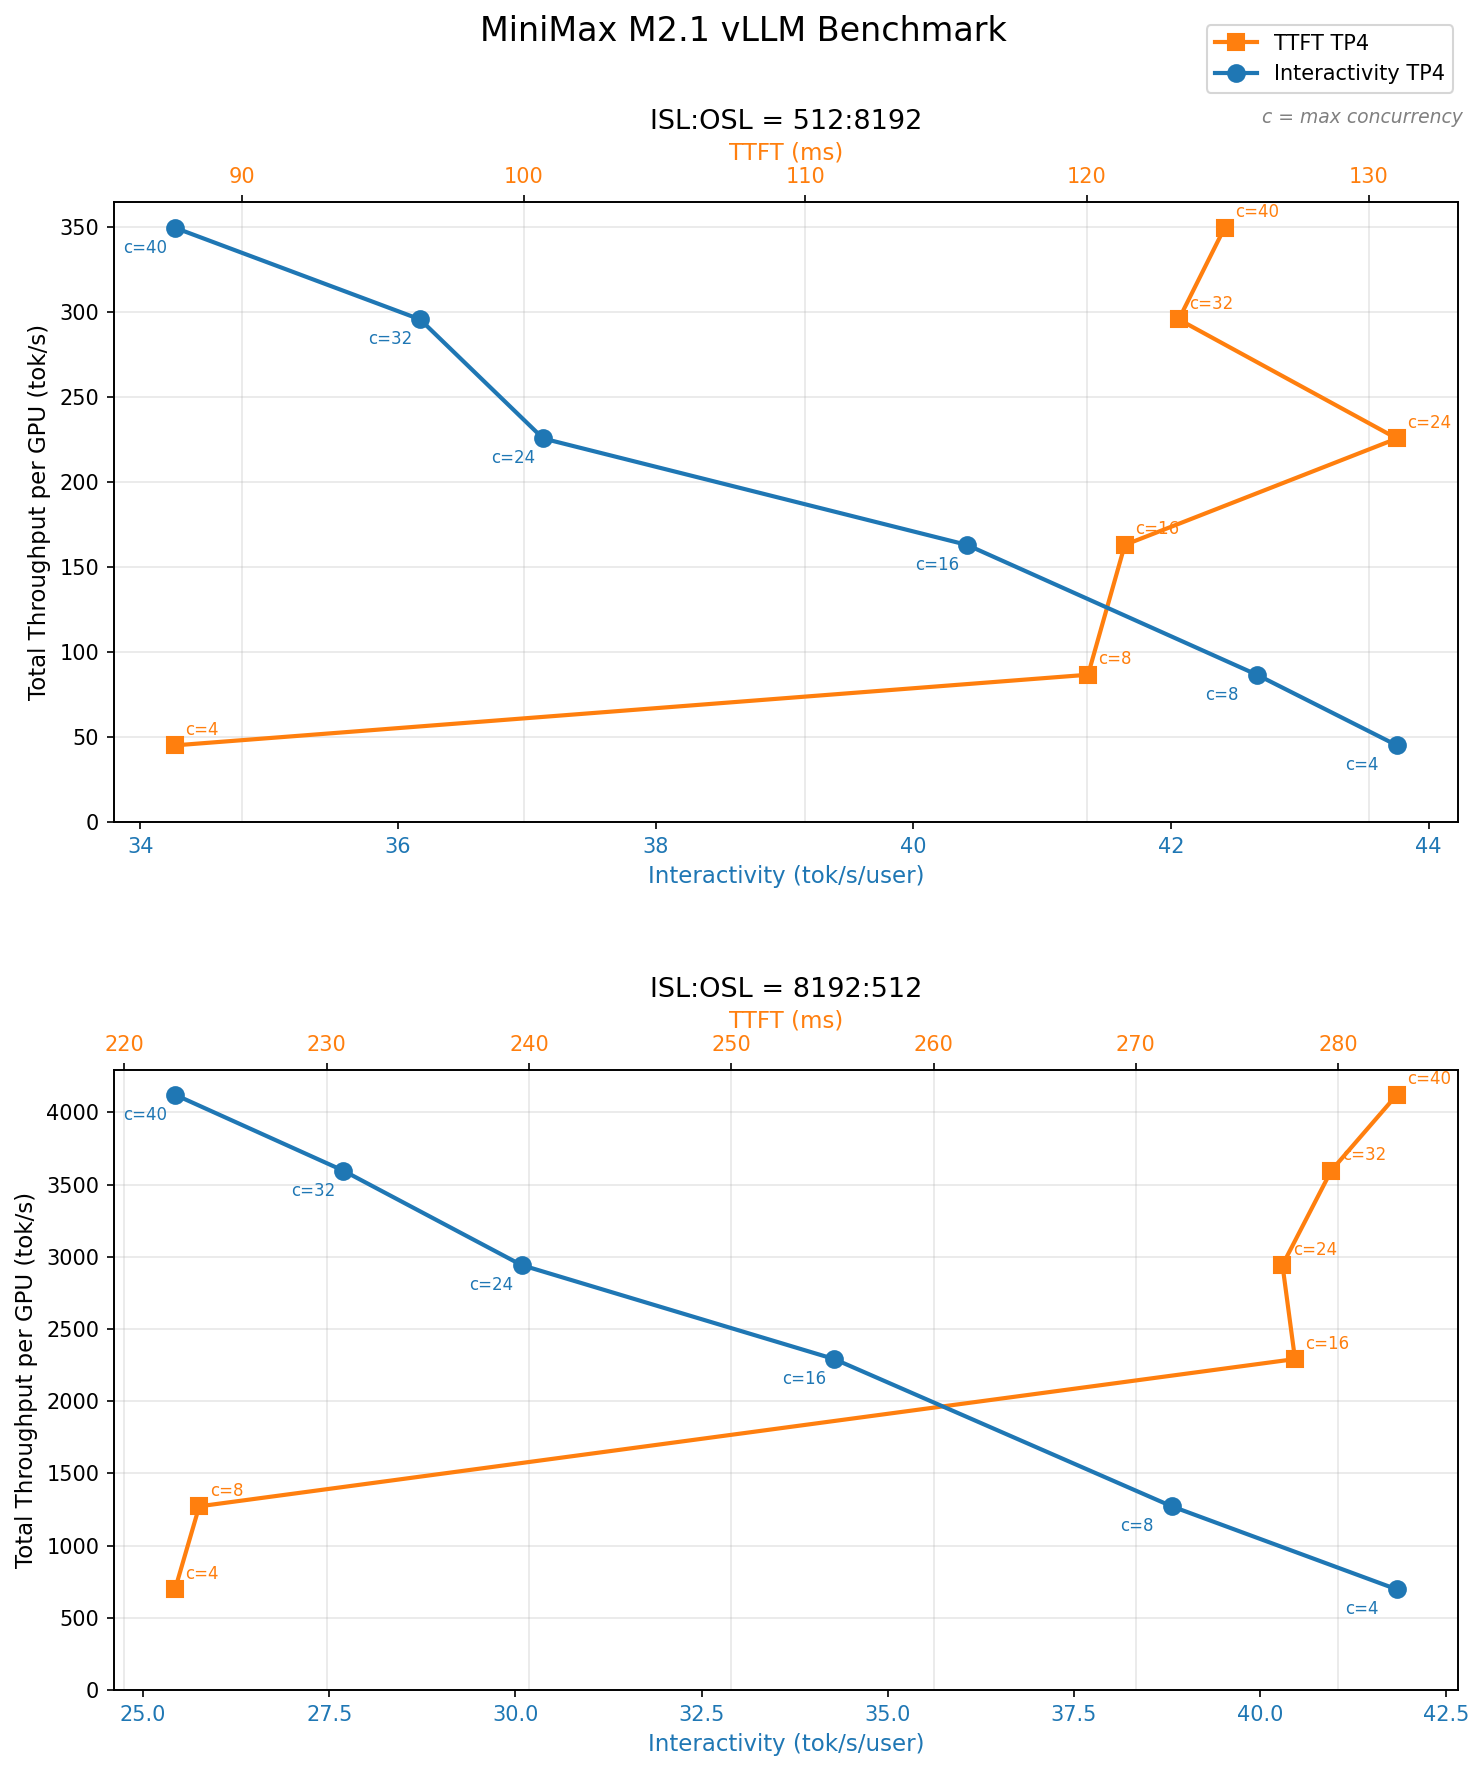
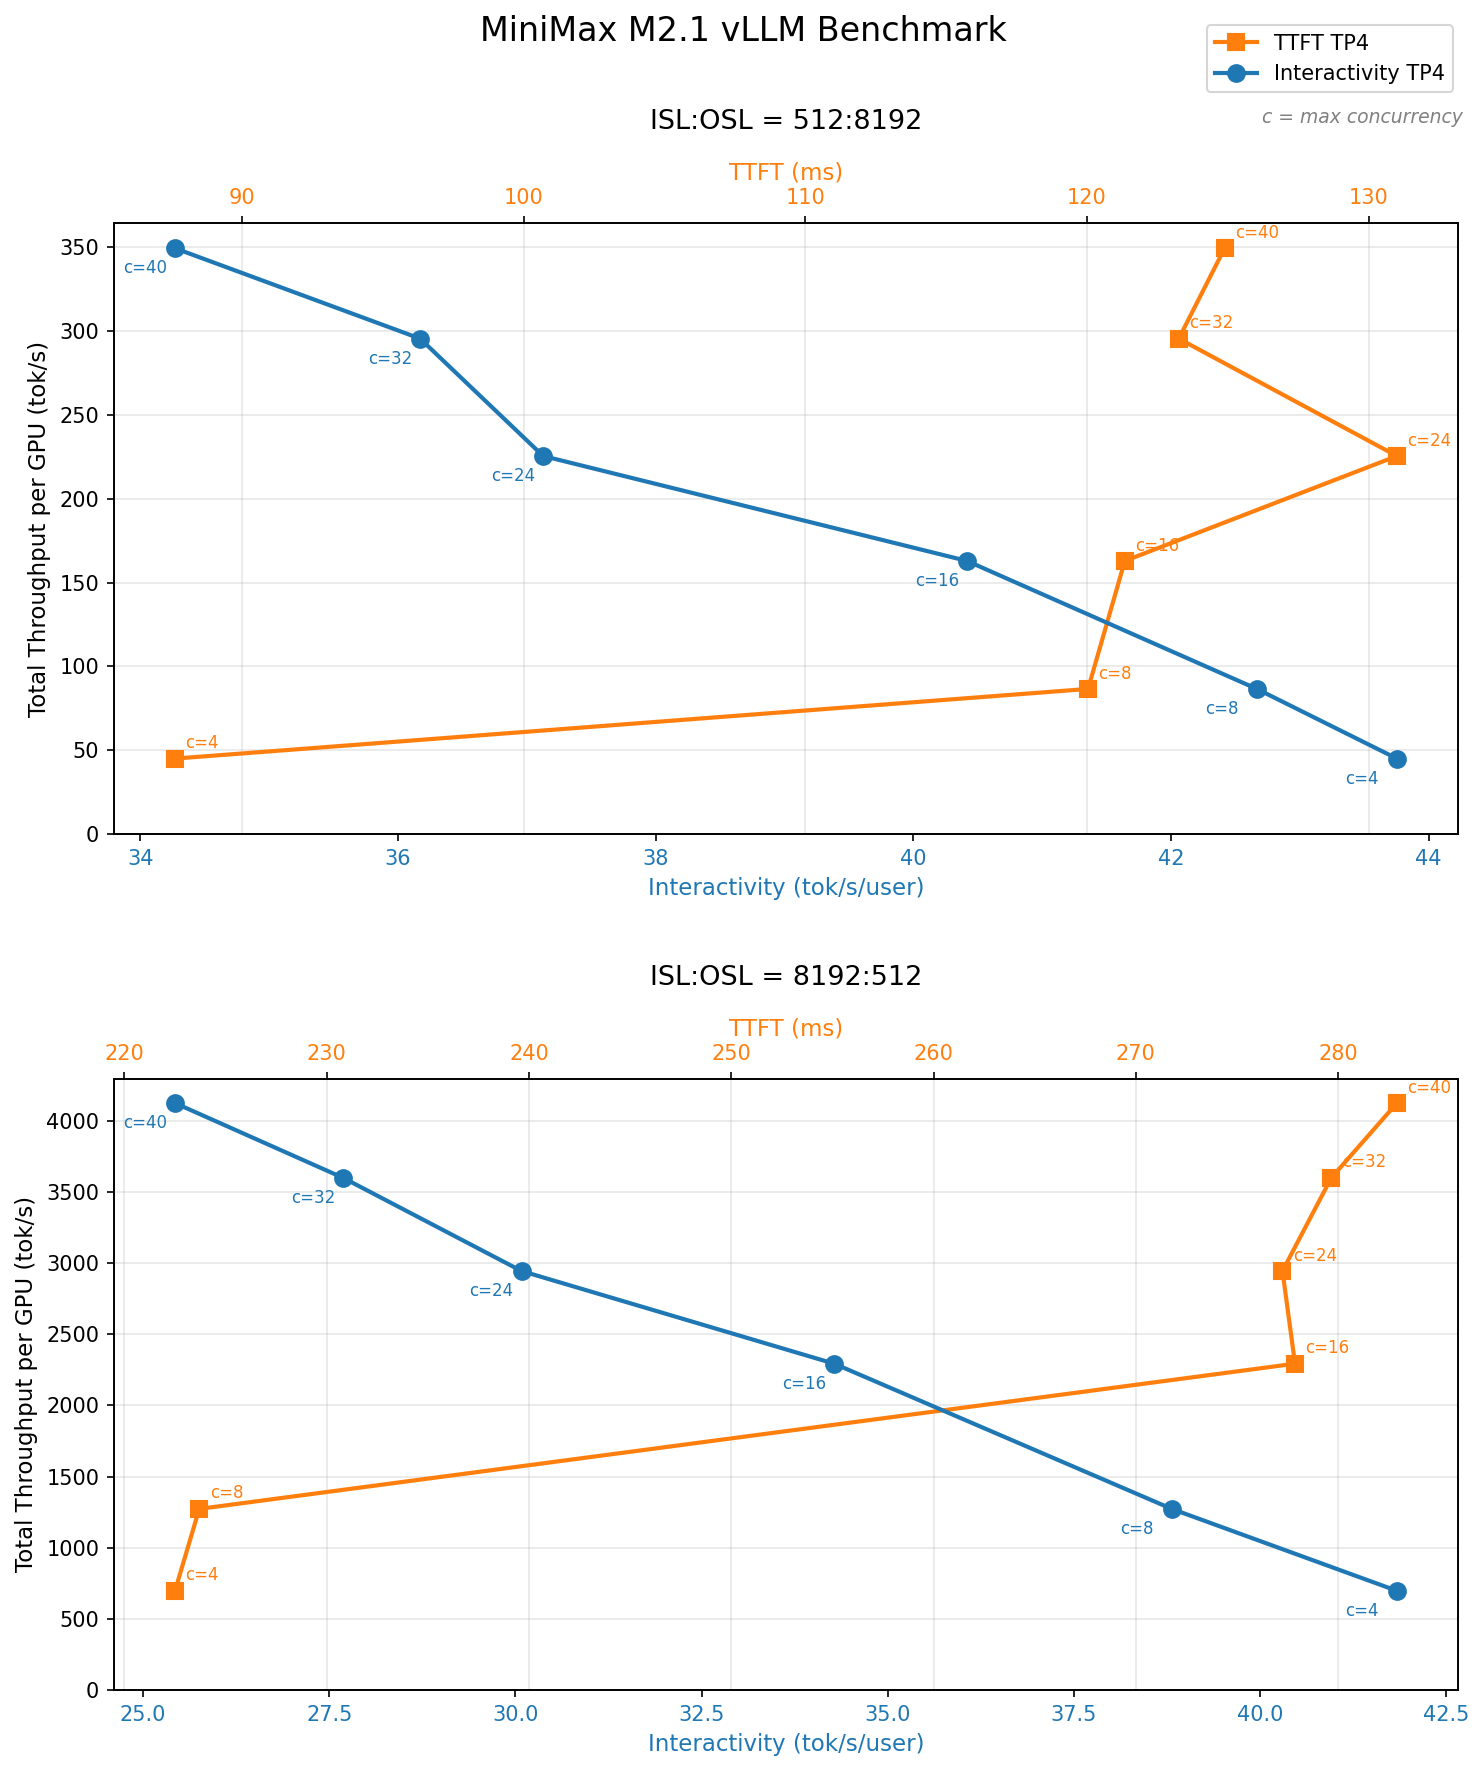
Tweaked the visualization.

diff --git a/plot_results.py b/plot_results.py
@@ -150,7 +150,7 @@ def plot_results(groups: Dict[Tuple[int, int], List[BenchmarkResult]], output_pa
         ax1.grid(True, alpha=0.3)
 
         # Title
-        ax1.set_title(f"ISL:OSL = {isl}:{osl}", fontsize=13, pad=35)
+        ax1.set_title(f"ISL:OSL = {isl}:{osl}", fontsize=13, pad=45)
 
         # Store lines for shared legend (only need one set)
         if idx == 0:
